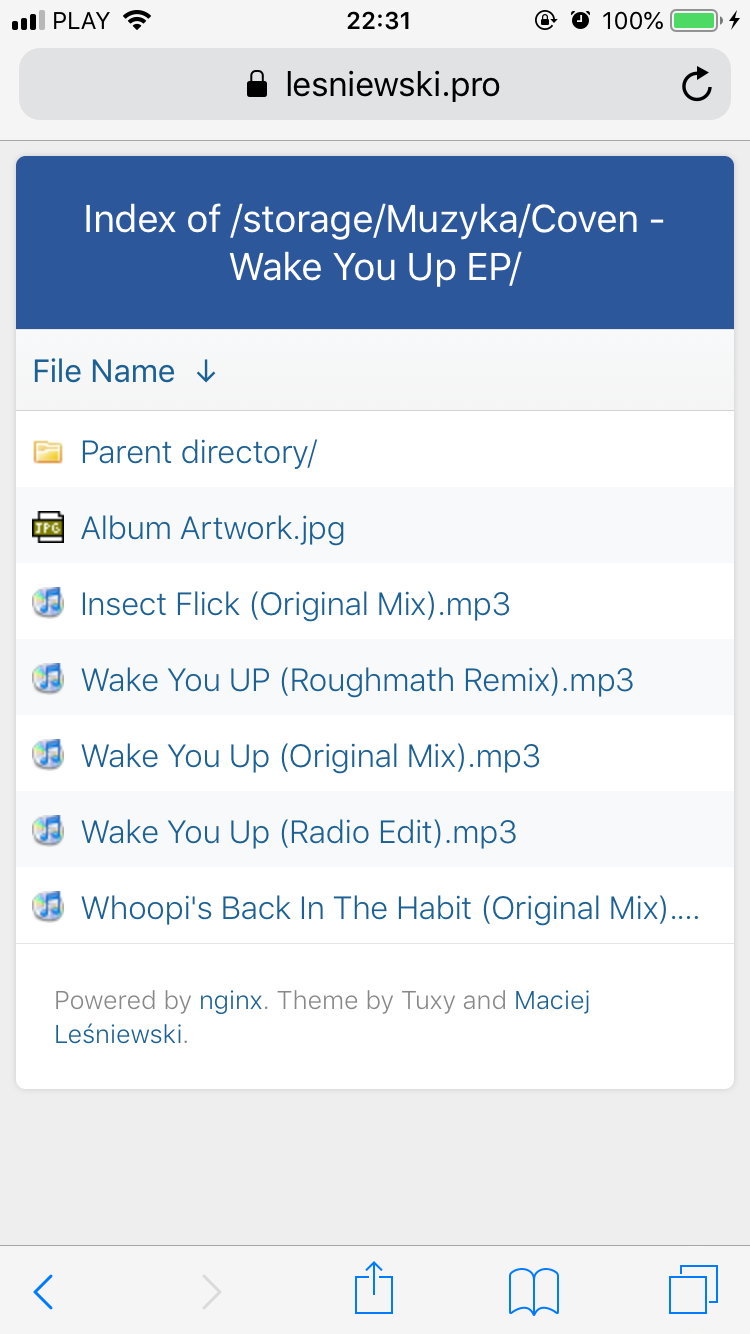
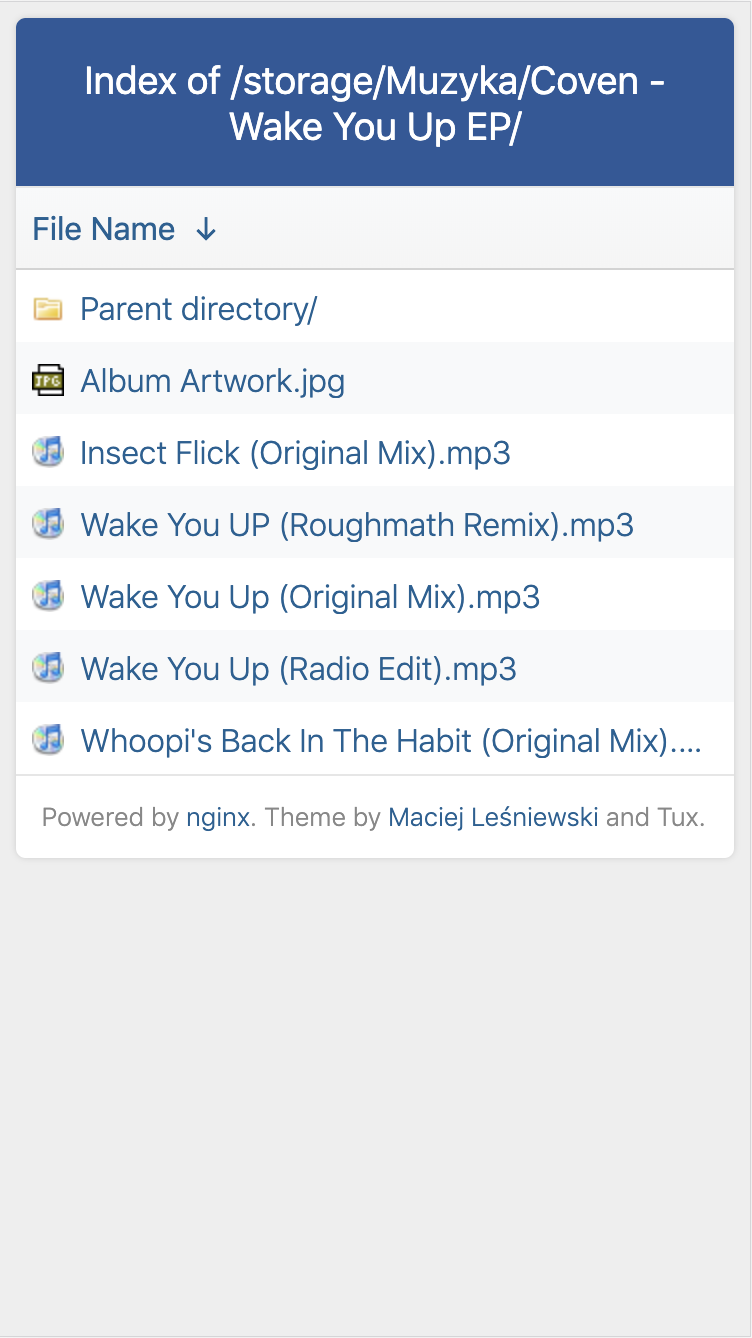
Updates footer styles

diff --git a/.nginx/style.css b/.nginx/style.css
@@ -119,4 +119,8 @@ footer {
 	#list td:nth-child(3) {
 		display: none;
 	}
+
+	footer {
+		padding: .8rem;
+	}
 }
